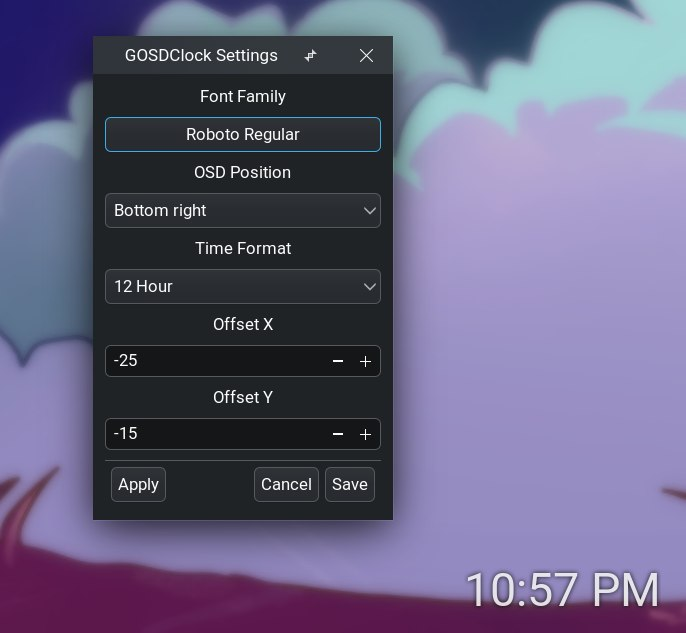
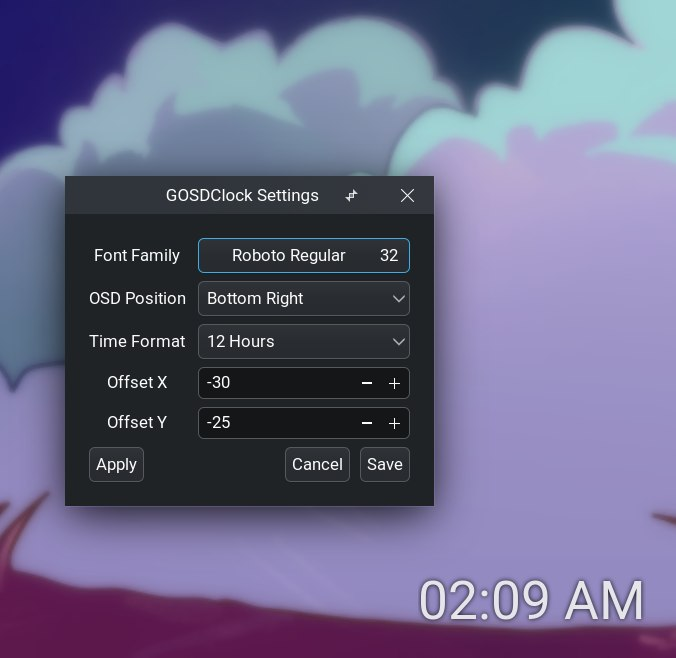
Improve settings UI

diff --git a/src/settings_window.cpp b/src/settings_window.cpp
@@ -13,15 +13,14 @@ SettingsWindow::SettingsWindow()
 {
   /* Window Properties */
   set_title("GOSDClock Settings");
-  set_default_size(300, 200);
+  set_size_request(-1, -1);
+  set_resizable(false);
   set_border_width(12);
 
   /* Font Style */
   std::string raw_font_name = config.get_font_family() + " " + std::to_string(config.get_font_size());
   font_button.set_font_name(raw_font_name);
-
-  main_layout.pack_start(font_label, Gtk::PackOptions::PACK_SHRINK);
-  main_layout.pack_start(font_button, Gtk::PackOptions::PACK_SHRINK);
+  font_button.set_tooltip_text("Choose the font family and size for the clock.");
 
   /* OSD Position */
   for (int i = 0; i < static_cast<int>(GOSDClock_Config::OSDPosition::Count); ++i)
@@ -29,9 +28,7 @@ SettingsWindow::SettingsWindow()
 
   position_combo.set_active_text(
     GOSDClock_Config::OSD_POSITION_LABELS[static_cast<int>(config.get_osd_position())]);
-
-  main_layout.pack_start(position_label, Gtk::PackOptions::PACK_SHRINK);
-  main_layout.pack_start(position_combo, Gtk::PackOptions::PACK_SHRINK);
+  position_combo.set_tooltip_text("Select where on screen the clock will appear.");
 
   /* Time Format */
   for (int i = 0; i < static_cast<int>(GOSDClock_Config::TimeFormat::Count); ++i)
@@ -39,32 +36,51 @@ SettingsWindow::SettingsWindow()
 
   time_format_combo.set_active_text(
     GOSDClock_Config::TIME_FORMAT_LABELS[static_cast<int>(config.get_time_format())]);
+  time_format_combo.set_tooltip_text("Choose between 12-hour and 24-hour formats.");
 
-  main_layout.pack_start(time_format_label, Gtk::PackOptions::PACK_SHRINK);
-  main_layout.pack_start(time_format_combo, Gtk::PackOptions::PACK_SHRINK);
-
-  /* Offset */
+  /* Offset Controls */
   offset_x_spin.set_range(-10000, 10000);
   offset_x_spin.set_increments(1, 1);
   offset_x_spin.set_value(config.get_offset_x());
-  main_layout.pack_start(offset_x_label, Gtk::PackOptions::PACK_SHRINK);
-  main_layout.pack_start(offset_x_spin, Gtk::PackOptions::PACK_SHRINK);
+  offset_x_spin.set_tooltip_text("Horizontal offset of the clock (pixels).");
 
   offset_y_spin.set_range(-10000, 10000);
   offset_y_spin.set_increments(1, 1);
   offset_y_spin.set_value(config.get_offset_y());
-  main_layout.pack_start(offset_y_label, Gtk::PackOptions::PACK_SHRINK);
-  main_layout.pack_start(offset_y_spin, Gtk::PackOptions::PACK_SHRINK);
+  offset_y_spin.set_tooltip_text("Vertical offset of the clock (pixels).");
+
+  /* Main Grid Layout */
+  grid.set_row_spacing(8);
+  grid.set_column_spacing(12);
+
+  grid.set_margin_start(12);
+  grid.set_margin_end(12);
+  grid.set_margin_top(12);
+  grid.set_margin_bottom(12);
+
+  grid.attach(font_label,        0, 0, 1, 1);
+  grid.attach(font_button,       1, 0, 1, 1);
+
+  grid.attach(position_label,    0, 1, 1, 1);
+  grid.attach(position_combo,    1, 1, 1, 1);
+
+  grid.attach(time_format_label, 0, 2, 1, 1);
+  grid.attach(time_format_combo, 1, 2, 1, 1);
+
+  grid.attach(offset_x_label,    0, 3, 1, 1);
+  grid.attach(offset_x_spin,     1, 3, 1, 1);
+
+  grid.attach(offset_y_label,    0, 4, 1, 1);
+  grid.attach(offset_y_spin,     1, 4, 1, 1);
 
   /* Action Buttons */
-  action_bar.pack_end(save_button);
-  action_bar.pack_end(cancel_button);
-  action_bar.pack_start(apply_button);
+  action_bar.pack_start(apply_button, Gtk::PACK_SHRINK);
+  action_bar.pack_end(save_button, Gtk::PACK_SHRINK);
+  action_bar.pack_end(cancel_button, Gtk::PACK_SHRINK);
 
-  main_layout.pack_start(action_bar, Gtk::PackOptions::PACK_SHRINK);
+  grid.attach(action_bar, 0, 5, 2, 1);
 
-  /* Show all widgets */
-  add(main_layout);
+  add(grid);
   show_all_children();
 
   /* Connect signals */

diff --git a/include/gosdclock/settings_window.hpp b/include/gosdclock/settings_window.hpp
@@ -19,7 +19,7 @@ private:
   GOSDClock_Config::Config config;          // Local copy of configuration
 
   /* Layout Containers */
-  Gtk::Box main_layout{Gtk::Orientation::ORIENTATION_VERTICAL, 10};
+  Gtk::Grid grid;
 
   /* Font Selection Widgets */
   Gtk::Label font_label;
@@ -40,7 +40,8 @@ private:
   Gtk::SpinButton offset_y_spin;
 
   /* Action Bar (Buttons) */
-  Gtk::ActionBar action_bar;
+  // Gtk::ActionBar action_bar;
+  Gtk::Box action_bar{Gtk::ORIENTATION_HORIZONTAL, 10};       // For consistency
   Gtk::Button save_button;
   Gtk::Button apply_button;
   Gtk::Button cancel_button;

diff --git a/README.md b/README.md
@@ -60,5 +60,5 @@ Example `gtk.css`
 ```
 
 ## Known Bugs
-- Flickering when hovered (expected behavior). Need X11 and Wayland-specific fixes
+- Flickering when hovered (expected behavior). Needs X11 and Wayland-specific fixes
 - Disappears when fullscreen is activated for any window. Requires X11 and wayland-specific fixes
